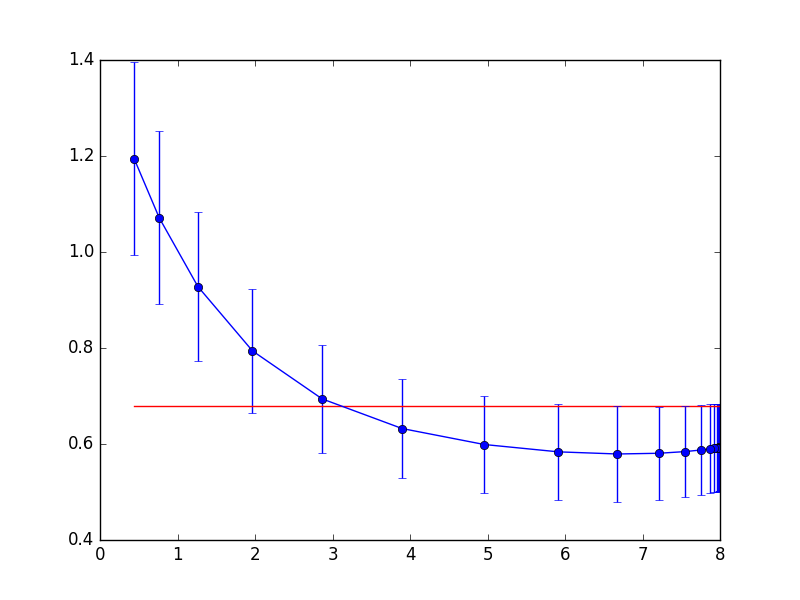
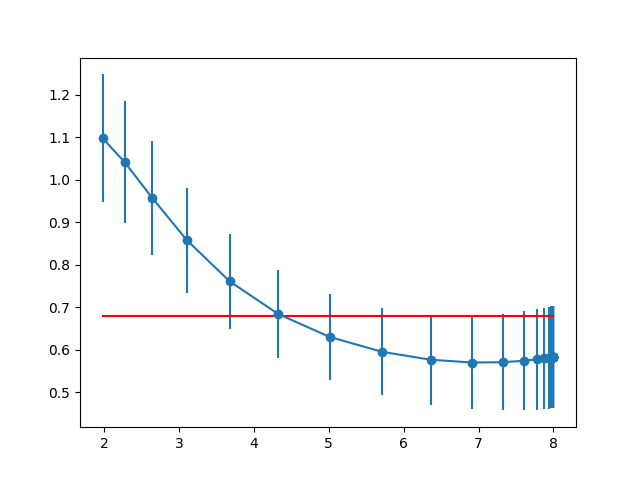
add all lwlr

diff --git a/learning/kernel_reg.py b/learning/kernel_reg.py
@@ -6,29 +6,58 @@ from scipy.stats import f as f_stats
 from scipy.stats import norm 
 import matplotlib.pyplot as plt
 
-from data_loader import load_data
+from data_loader import load_data, normalize_data
 from cv_common import gen_CV_samples_by_K_folds
 
 '''
 X_train: 生成 h/bandwidth
 
 X_test: 评价结果(或者用交叉验证的方法来选)
-'''
 
+
+从试验结果看， 新核和旧核差别不明显
+此外，还有一些别的核函数可以尝试一下。另一个，看起来核函数实现得也有些问题？
+by wdh:看起来是的，针对每一维应该有不同的h(只是我们用的是归一化后的数据，如果用h/si, 用归一化的数据，h用一个就可以了。不过实际上应该还是多个hi, 这样各维度的权重就不一样了？)
+'''
+'''
+old kernels
 kernels = {
-    'box': lambda x:1./(2**len(x)) if (len(np.where(np.abs(x)>1.)) == 0) else 0.,    #f(x) = c,
-    'norm':lambda x:np.prod(norm.pdf(x)),
+        #x_s: x_star, 
+     'box': lambda x:1./(2**len(x)) if (len(np.where(np.abs(x)>1.)[0]) == 0) else 0.,    #f(x) = c,
+    'rbf':lambda x:np.exp(-sum(x**2)/2),   #'norm':lambda x:np.prod(norm.pdf(x)),
     'ep':lambda x:np.prod(3./4*(1-x**2)) if (np.where(np.abs(x)>1)[0].shape[0] == 0) else 0,
     'cos':lambda x: np.prod(1./2*np.cos(x)) if (np.where(np.abs(x)>np.pi/2)[0].shape[0] == 0) else 0.,
 }
+'''
 
-def kernel_reg(X_train, Y_train, X_test, Y_test, kf):
+kernels = {
+     'box': lambda x:1./2 if (np.abs((x).sum()) <= 1) else 0.,    #f(x) = c,
+    'rbf':lambda x:np.exp(-(x**2).sum()/2),   #'norm':lambda x:np.prod(norm.pdf(x)),
+    'ep':lambda x:3./4*(1-(x**2).sum()) if ((x**2).sum()<=1) else 0,
+    'cos':lambda x: 1./2*np.cos(np.sum(x)) if (np.abs((x).sum()) <= 1) else 0.,
+}
+
+def fit(X_train, Y_train, x, h, kf):
+    base_each = map(lambda i:1.0/h*kf((X_train[i]-x)/h), range(len(Y_train))) 
+    weight_each = map(lambda i:1.0/h*kf((X_train[i]-x)/h)*Y_train[i], range(len(Y_train)))
+
+    weight = np.sum(np.array(weight_each))
+    base = np.sum(np.array(base_each))
+    
+    if base >= 1e-5:
+        return weight/base
+    else:
+        return 0.
+
+
+def kernel_reg(kf):
+    train_X, train_Y, test_X, test_Y, dt_conv_fun = load_data(type=0, need_bias=0, y_standard=0)
     N = 50
     mse_mean = np.zeros(N)
     mse_std = np.zeros(N)
 
     K = 10
-    K_folds = gen_CV_samples_by_K_folds(X_train, Y_train, K)
+    K_folds = gen_CV_samples_by_K_folds(train_X, train_Y, K)
     steps = np.logspace(-3, 3, N)
 
     for ni in xrange(N):
@@ -37,32 +66,39 @@ def kernel_reg(X_train, Y_train, X_test, Y_test, kf):
 
         for k in xrange(K):
             ks = K_folds[k]
-            X_CV, Y_CV, Xt_CV, Yt_CV = ks
+            X_CV, Y_CV, Xt_CV, Yt_CV,nf = normalize_data(ks[0], ks[1], ks[2], ks[3])
             
             rx = np.zeros(len(Yt_CV))
             for i in xrange(len(Yt_CV)):
-                xi = Xt_CV[i]
-                yi = Yt_CV[i]
-
-                yp = map(lambda i:kf((X_CV[i]-xi)/h)*Y_CV[i], xrange(len(Y_CV)))
-                base = map(lambda i:kf((X_CV[i]-xi)/h), xrange(len(Y_CV)))
-
-                rx[i] = np.array(yp).sum() / np.array(base).sum()
+                rx[i] = fit(X_CV, Y_CV, Xt_CV[i], h, kf)
 
             mse_k[k] = np.sum((rx - Yt_CV) ** 2) / len(Y_CV)
-
+        
         mse_mean[ni] = mse_k.mean()
         mse_std[ni] = mse_k.std()/np.sqrt(K)
+    
+    best_id = np.argmin(mse_mean)
+    best_h = steps[best_id]
 
-    return zip(steps, mse_mean, mse_std)
+    X, Y, X_t, Y_t, dt_conv_fun = load_data()
+    test_rst = np.zeros(len(Y_t))
+
+    for i in xrange(len(Y_t)):
+        test_rst[i] = fit(X, Y, X_t[i], best_h, kf)
+
+    test_mse = np.sum((test_rst - Y_t)**2)/len(Y_t)
+    test_std = test_rst.std()
+
+    train_rst = zip(steps, mse_mean, mse_std)
+
+    return train_rst, (best_h, test_mse, test_std)
 
 
 if __name__ == '__main__':
-    X, Y, X_t, Y_t,dt = load_data()
-    
     for kname, kernel in kernels.items():
         print "\nProcess %s:" % kname
-        rst = kernel_reg(X, Y, X_t, Y_t, kernel)
-        for r in rst:
+        train_rst, test_rst = kernel_reg(kernel)
+        for r in train_rst:
             print "h: %.4f  mse_mean: %.4f  mse_std: %.4f" % r
+        print "Test rst: h: %.4f mse: %.4f  std: %.4f" % test_rst
 

diff --git a/learning/lwlr_1.py b/learning/lwlr_1.py
@@ -1,0 +1,112 @@
+# encoding: utf8
+
+
+'''
+locally weighted linear regression
+
+J = sum_i(W_i * (y_i - seta * x_i)**2)
+
+W_i = exp(-np.linalg.norm(x_i - x)/(2*k**2))
+
+seta = (X.T * W * X).inv * X.T * W * y
+
+'''
+
+import numpy as np
+import matplotlib.pyplot as plt
+import pdb
+
+from cv_common import gen_CV_samples_by_K_folds 
+
+
+def lwlr(x_i, train_X, train_Y, k):
+    m,n = train_X.shape
+    
+    W = np.zeros((m,m))
+    for i in xrange(m):
+        W[i,i] = np.exp(-1. * np.linalg.norm(x_i - train_X[i], 2)/(2*k))
+    
+    X = train_X
+    Y = train_Y
+    XTW = np.dot(X.T, W)
+    XTWX = np.dot(XTW, X)
+    XTWy = np.dot(XTW, Y)
+    seta_hat = np.dot(np.linalg.inv(XTWX), XTWy)
+
+    return np.dot(seta_hat, x_i)
+
+def lwlrs(xs, train_X, train_Y, k):
+    m,n = xs.shape
+    y_hats = np.zeros(m)
+
+    for i in xrange(m):
+        xi = xs[i]
+        y_hats[i] = lwlr(xi, train_X, train_Y, k)
+
+    return y_hats
+
+
+'''
+基于X,Y数据，用k-fold方法选取出最优的k
+'''
+def select_k(X, Y):
+    CV_K = 10
+    k_size = 100
+    cv_samples = gen_CV_samples_by_K_folds(X, Y, CV_K)
+
+    ks = np.logspace(-3, 3, k_size)
+    K_mses = np.zeros(k_size)
+    K_stds = np.zeros(k_size)
+
+    for ki in xrange(k_size):
+        k = ks[ki]
+        cv_mses = np.zeros(CV_K) 
+
+        for ci in xrange(CV_K):
+            X_, Y_, X_test, Y_test = cv_samples[ci]
+            y_hats = lwlrs(X_test, X_, Y_, k)
+            y_err = y_hats - Y_test
+
+            cv_mses[ci] = np.dot(y_err, y_err) / len(y_err)
+
+        K_mses[ki] = cv_mses.mean()
+        K_stds[ki] = cv_mses.std()/np.sqrt(CV_K) 
+
+        print "CV for K: %.4f, mse: %.4f, std: %.4f" % (k, K_mses[ki], K_stds[ki])
+
+    best_kid = np.argmin(K_mses)
+
+    plt.errorbar(ks, K_mses, yerr=K_stds, fmt='-o')
+    plt.savefig('images/lwlr_cvmse_errorbar.png')
+
+    return ks[best_kid]
+
+    
+
+if __name__ == "__main__":
+    data = np.loadtxt('ex0.txt')
+    np.random.shuffle(data)
+
+    n,m = data.shape
+
+    tlen = int(n * 0.7)
+    train_data = data[:tlen]
+    test_data = data[tlen:]
+
+    train_X = train_data[:, :-1]
+    train_Y = train_data[:,-1]
+
+    test_X = test_data[:,:-1]
+    test_Y = test_data[:,-1]
+
+    best_k = select_k(train_X, train_Y)
+    y_hats = lwlrs(test_X, train_X, train_Y, best_k)
+
+    p_errs = y_hats - test_Y
+    test_mse = np.dot(p_errs, p_errs)/len(test_Y)
+    test_std = p_errs.std()
+    pdb.set_trace()
+
+    print ""
+    print "Predict, k: %.4f, mse: %.4f, std: %.4f" % (best_k, test_mse, test_std)
+

diff --git a/learning/lwlr_course.py b/learning/lwlr_course.py
@@ -1,0 +1,99 @@
+# encoding: utf8
+
+
+'''
+locally weighted linear regression
+
+J = sum_i(W_i * (y_i - seta * x_i)**2)
+
+W_i = exp(-np.linalg.norm(x_i - x)/(2*k**2))
+
+seta = (X.T * W * X).inv * X.T * W * y
+
+'''
+
+import numpy as np
+import matplotlib.pyplot as plt
+import pdb
+
+from cv_common import gen_CV_samples_by_K_folds 
+from data_loader import load_data
+
+def lwlr(x_i, train_X, train_Y, k):
+    m,n = train_X.shape
+    
+    W = np.zeros((m,m))
+    for i in xrange(m):
+        W[i,i] = np.exp(-1. * np.linalg.norm(x_i - train_X[i], 2)/(2*k))
+    
+    X = train_X
+    Y = train_Y
+    XTW = np.dot(X.T, W)
+    XTWX = np.dot(XTW, X)
+    XTWy = np.dot(XTW, Y)
+
+    seta_hat = np.dot(np.linalg.inv(XTWX), XTWy)
+
+    return np.dot(seta_hat, x_i)
+
+def lwlrs(xs, train_X, train_Y, k):
+    m,n = xs.shape
+    y_hats = np.zeros(m)
+
+    for i in xrange(m):
+        xi = xs[i]
+        y_hats[i] = lwlr(xi, train_X, train_Y, k)
+
+    return y_hats
+
+
+'''
+基于X,Y数据，用k-fold方法选取出最优的k
+'''
+def select_k(X, Y):
+    CV_K = 10
+    k_size = 100
+    cv_samples = gen_CV_samples_by_K_folds(X, Y, CV_K)
+
+    ks = np.logspace(0, 3, k_size)
+    K_mses = np.zeros(k_size)
+    K_stds = np.zeros(k_size)
+
+    for ki in xrange(k_size):
+        k = ks[ki]
+        cv_mses = np.zeros(CV_K) 
+
+        for ci in xrange(CV_K):
+            X_, Y_, X_test, Y_test = cv_samples[ci]
+            y_hats = lwlrs(X_test, X_, Y_, k)
+            y_err = y_hats - Y_test
+
+            cv_mses[ci] = np.dot(y_err, y_err) / len(y_err)
+
+        K_mses[ki] = cv_mses.mean()
+        K_stds[ki] = cv_mses.std()/np.sqrt(CV_K) 
+
+        print "CV for K: %.4f, mse: %.4f, std: %.4f" % (k, K_mses[ki], K_stds[ki])
+
+    best_kid = np.argmin(K_mses)
+
+    plt.errorbar(ks, K_mses, yerr=K_stds, fmt='-o')
+    plt.savefig('images/lwlr_course_cvmse_errorbar.png')
+
+    return ks[best_kid]
+
+    
+
+if __name__ == "__main__":
+    train_X, train_Y, test_X, test_Y, dt_stand_fun = load_data(type=0, need_bias=1, y_standard=0)
+
+    best_k = select_k(train_X, train_Y)
+    y_hats = lwlrs(test_X, train_X, train_Y, best_k)
+
+    p_errs = y_hats - test_Y
+    test_mse = np.dot(p_errs, p_errs)/len(test_Y)
+    test_std = p_errs.std()
+
+    print ""
+    print "Predict, k: %.4f, mse: %.4f, std: %.4f" % (best_k, test_mse, test_std)
+

diff --git a/learning/ridge_linear_regression.py b/learning/ridge_linear_regression.py
@@ -79,25 +79,25 @@ def leasq_with_L2_new():
 
     #计算不同lamb下的训练误差和方差
     dfs = np.zeros(len(lamb_lst))
-    rss_means = np.zeros(len(lamb_lst))
-    rss_mean_stds = np.zeros(len(lamb_lst))
+    mse_means = np.zeros(len(lamb_lst))
+    mse_mean_stds = np.zeros(len(lamb_lst))
 
     for lid in range(len(lamb_lst)):
         #lambda[lid]下的df
         dfs[lid] = train_mid_rst[0][lid][2]
         #K折CV下误差均值和标准差
         test_rsses = np.array(map(lambda i:train_mid_rst[i][lid][4], range(0,K)))
-        rss_means[lid] = test_rsses.mean()
+        mse_means[lid] = test_rsses.mean()
         #!!!!!注意：这儿求的是估计的标准差 1/K mean(sum(Xi)),  故而要除以K
-        rss_mean_stds[lid] = test_rsses.std()/np.sqrt(K)
+        mse_mean_stds[lid] = test_rsses.std()/np.sqrt(K)
 
-    best_lamb_id, minid = one_std_error_rule(rss_means, rss_mean_stds)
+    best_lamb_id, minid = one_std_error_rule(mse_means, mse_mean_stds)
     print "Best lambid: %d, lambda: %.4f, degree of free: %.4f" % (best_lamb_id, lamb_lst[best_lamb_id], dfs[best_lamb_id]) 
     
-    one_std_val = rss_means[minid] + rss_mean_stds[minid]
+    one_std_val = mse_means[minid] + mse_mean_stds[minid]
     plt.plot((dfs[0],dfs[-1]), (one_std_val, one_std_val), 'r-')
-    plt.errorbar(dfs, rss_means, yerr=rss_mean_stds, fmt='-o')
-    plt.savefig('images/rss_errorbar.png', format='png')
+    plt.errorbar(dfs, mse_means, yerr=mse_mean_stds, fmt='-o')
+    plt.savefig('images/mse_errorbar.png', format='png')
 
     #用K折选出来的最优lambda进行回归预测
 

diff --git a/learning/linear_all_subset.py b/learning/linear_all_subset.py
@@ -12,9 +12,10 @@ from cv_common import gen_CV_samples_by_K_folds, one_std_error_rule
 '''
 子集选择
 穷举法找最优模型 
-注意：要求传入数据有偏置，这样可以算出截距情况, 不需要对Y进行标准化(这个教材上的不同)
+注意：要求传入数据有偏置项，这样可以算出截距情况, 不需要对Y进行标准化(这个教材上的不同)
 '''
 import itertools
+
 def all_subset_regression(X, Y, X_t, Y_t, comp_testmse=1):
     beta_count = X.shape[1]
     beta_id_lst = range(1, beta_count)
